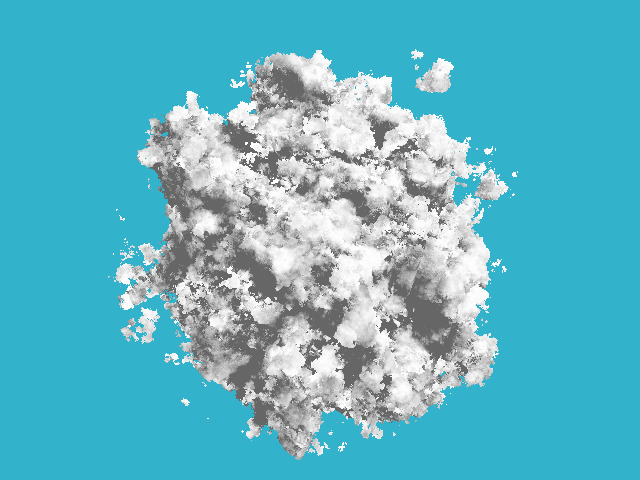
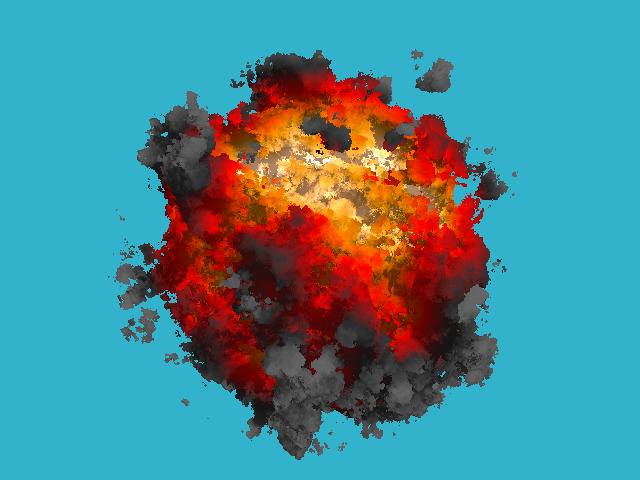
fire color palette

diff --git a/tinykaboom.cpp b/tinykaboom.cpp
@@ -46,6 +46,23 @@ float fractal_brownian_motion(const Vec3f &x) {
     return f/0.9375;
 }
 
+Vec3f palette_fire(const float d) {
+    const Vec3f   yellow(1.7, 1.3, 1.0); // note that the color is "hot", i.e. has components >1
+    const Vec3f   orange(1.0, 0.6, 0.0);
+    const Vec3f      red(1.0, 0.0, 0.0);
+    const Vec3f darkgray(0.2, 0.2, 0.2);
+    const Vec3f     gray(0.4, 0.4, 0.4);
+
+    float x = std::max(0.f, std::min(1.f, d));
+    if (x<.25f)
+        return lerp(gray, darkgray, x*4.f);
+    else if (x<.5f)
+        return lerp(darkgray, red, x*4.f-1.f);
+    else if (x<.75f)
+        return lerp(red, orange, x*4.f-2.f);
+    return lerp(orange, yellow, x*4.f-3.f);
+}
+
 float signed_distance(const Vec3f &p) {
     float displacement = -fractal_brownian_motion(p*3.4)*noise_amplitude;
     return p.norm() - (sphere_radius + displacement);
@@ -86,9 +103,10 @@ int main() {
             float dir_z = -height/(2.*tan(fov/2.));
             Vec3f hit;
             if (sphere_trace(Vec3f(0, 0, 3), Vec3f(dir_x, dir_y, dir_z).normalize(), hit)) { // the camera is placed to (0,0,3) and it looks along the -z axis
+                float noise_level = (sphere_radius-hit.norm())/noise_amplitude;
                 Vec3f light_dir = (Vec3f(10, 10, 10) - hit).normalize();                     // one light is placed to (10,10,10)
                 float light_intensity  = std::max(0.4f, light_dir*distance_field_normal(hit));
-                framebuffer[i+j*width] = Vec3f(1, 1, 1)*light_intensity;
+                framebuffer[i+j*width] = palette_fire((-.2 + noise_level)*2)*light_intensity;
             } else {
                 framebuffer[i+j*width] = Vec3f(0.2, 0.7, 0.8); // background color
             }
